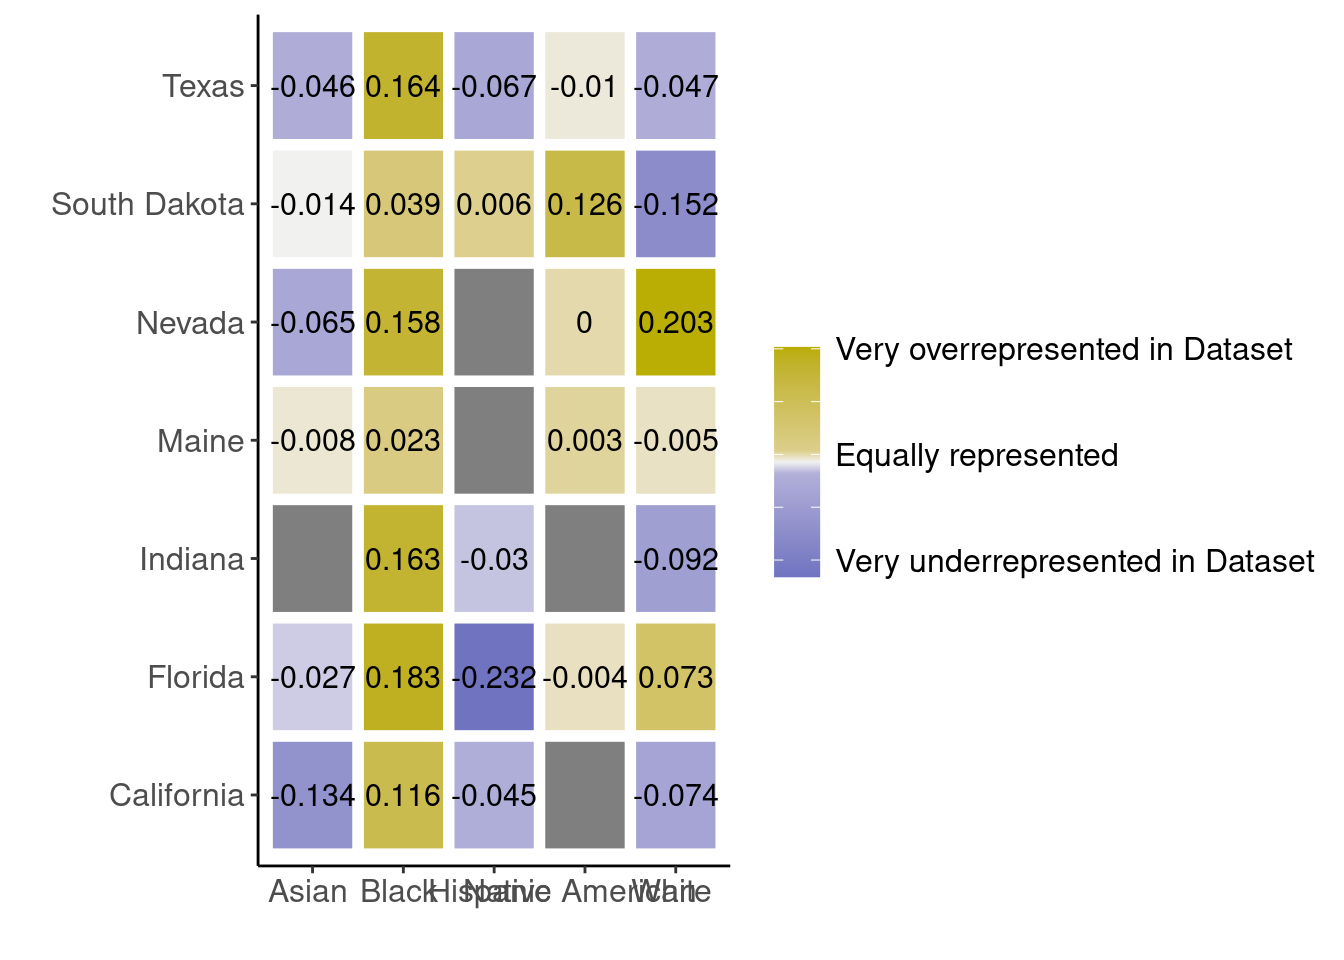
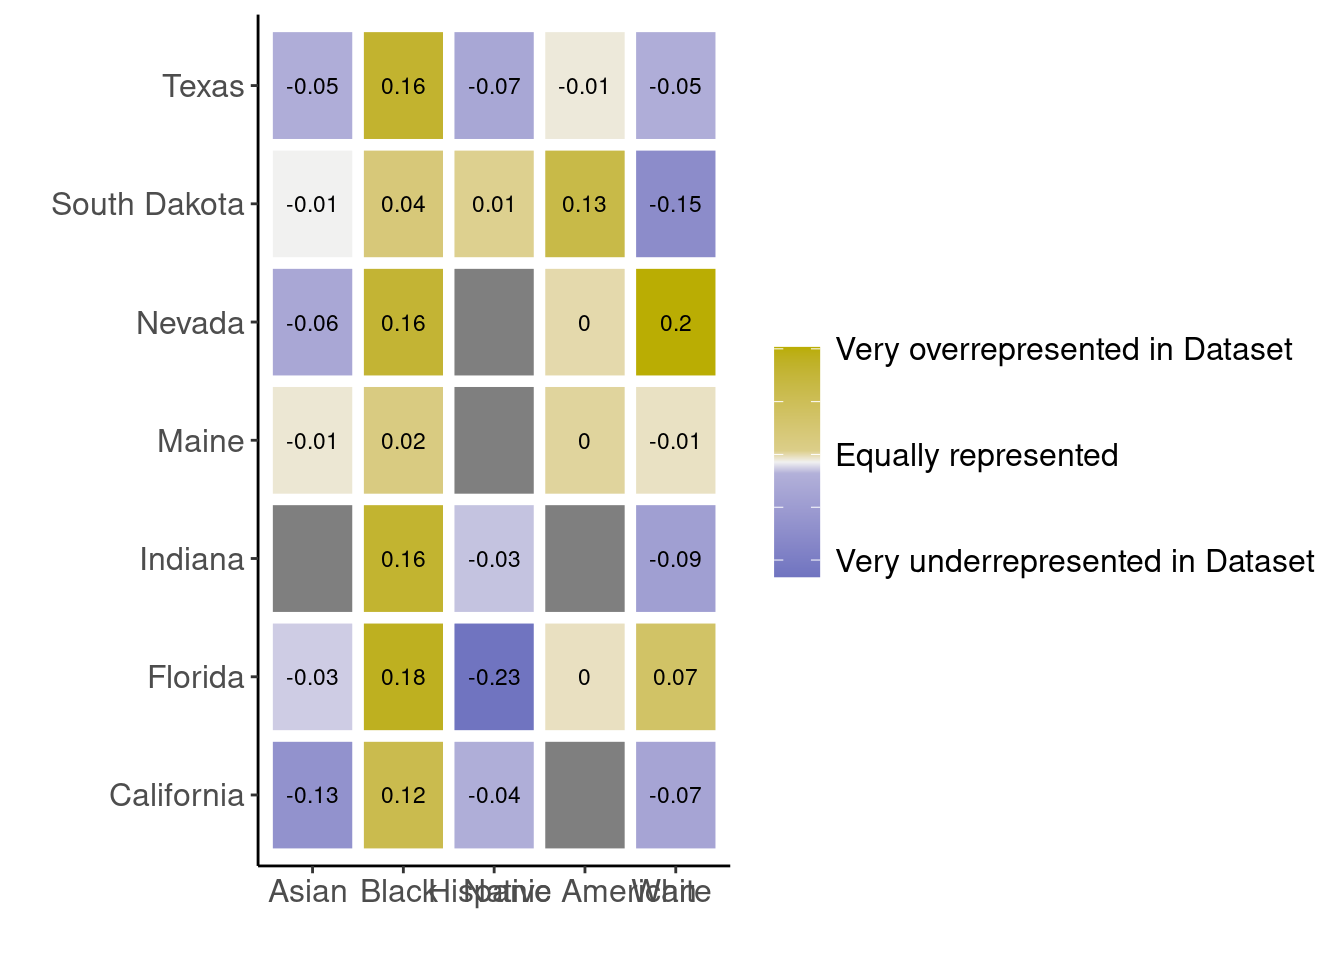
Build site.

diff --git a/docs/tasks.html b/docs/tasks.html
@@ -515,16 +515,16 @@ data/df_flavor.csv
 <div class="panel panel-default">
 <div class="panel-heading">
 <p class="panel-title">
-<a data-toggle="collapse" data-parent="#workflowr-checks" href="#strongRepositoryversionstrongahrefhttpsgithubcomhcvwinterviewtree2d5b2d94881c2eb8f95c76f913a57bf7b642f777targetblank2d5b2d9a"> <span class="glyphicon glyphicon-ok text-success" aria-hidden="true"></span> <strong>Repository version:</strong> <a href="https://github.com/hcvw/interview/tree/2d5b2d94881c2eb8f95c76f913a57bf7b642f777" target="_blank">2d5b2d9</a> </a>
+<a data-toggle="collapse" data-parent="#workflowr-checks" href="#strongRepositoryversionstrongahrefhttpsgithubcomhcvwinterviewtreedc63a76d07a503bfbfe6d00f54df94dd32b05ffctargetblankdc63a76a"> <span class="glyphicon glyphicon-ok text-success" aria-hidden="true"></span> <strong>Repository version:</strong> <a href="https://github.com/hcvw/interview/tree/dc63a76d07a503bfbfe6d00f54df94dd32b05ffc" target="_blank">dc63a76</a> </a>
 </p>
 </div>
[2 lines of base64/hex data omitted]
 <div class="panel-body">
 <p>
 Great! You are using Git for version control. Tracking code development and connecting the code version to the results is critical for reproducibility.
 </p>
 <p>
-The results in this page were generated with repository version <a href="https://github.com/hcvw/interview/tree/2d5b2d94881c2eb8f95c76f913a57bf7b642f777" target="_blank">2d5b2d9</a>. See the <em>Past versions</em> tab to see a history of the changes made to the R Markdown and HTML files.
+The results in this page were generated with repository version <a href="https://github.com/hcvw/interview/tree/dc63a76d07a503bfbfe6d00f54df94dd32b05ffc" target="_blank">dc63a76</a>. See the <em>Past versions</em> tab to see a history of the changes made to the R Markdown and HTML files.
 </p>
 <p>
 Note that you need to be careful to ensure that all relevant files for the analysis have been committed to Git prior to generating the results (you can use <code>wflow_publish</code> or <code>wflow_git_commit</code>). workflowr only checks the R Markdown file, but you know if there are other scripts or data files that it depends on. Below is the status of the Git repository when the results were generated:
@@ -572,6 +572,40 @@ Message
 </tr>
 </thead>
 <tbody>
+<tr>
+<td>
+Rmd
+</td>
+<td>
+<a href="https://github.com/hcvw/interview/blob/dc63a76d07a503bfbfe6d00f54df94dd32b05ffc/analysis/tasks.rmd" target="_blank">dc63a76</a>
+</td>
+<td>
+Hannah Van Wyk
+</td>
+<td>
+2024-03-02
+</td>
+<td>
+Start my new project
+</td>
+</tr>
+<tr>
+<td>
+html
+</td>
+<td>
+<a href="https://rawcdn.githack.com/hcvw/interview/31d64aa1cecdbed451fa23997fc1bfe9da115f8d/docs/tasks.html" target="_blank">31d64aa</a>
+</td>
+<td>
+Hannah Van Wyk
+</td>
+<td>
+2024-03-02
+</td>
+<td>
+Build site.
+</td>
+</tr>
 <tr>
 <td>
 Rmd
@@ -1397,7 +1431,7 @@ merged_data &lt;- database_data %&gt;%
   mutate(Difference = Value_Database - Value_Population)</code></pre>
 <pre class="r"><code>ggplot(merged_data, aes(x = Demographic.Group, y = State, fill = Difference)) +
   geom_tile(color = &quot;white&quot;,size=2) + 
-  geom_text(aes(label = round(Difference, 3)),size=4) +
+  geom_text(aes(label = round(Difference, 2)),size=3) +
   scale_fill_gradientn(colours = c(&quot;#7074c0&quot;, &quot;#f1f1f1&quot;, &quot;#baad03&quot;),
                       values = scales::rescale(c(-0.5, -0.05, 0, 0.05, 0.5)),
                       labels = c(&quot;Very underrepresented in Dataset&quot;,&quot;&quot;,&quot;Equally represented&quot;,&quot;&quot;,&quot;Very overrepresented in Dataset&quot;)) +
@@ -1615,7 +1649,7 @@ for (flavor in unique(flavor_long$Attribute)) {
 }</code></pre>
 <pre class="r"><code>print(xtable(results),include.rownames=FALSE, type = &quot;html&quot;)</code></pre>
 <!-- html table generated in R 4.3.1 by xtable 1.8-4 package -->
-<!-- Sat Mar  2 14:38:32 2024 -->
+<!-- Sat Mar  2 14:39:08 2024 -->
 <table border="1">
 <tr>
 <th>
